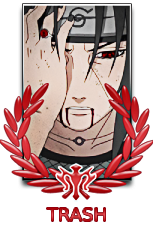
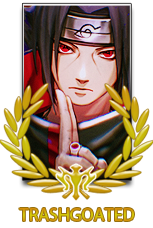
update colors Trash Betrayer Cley

diff --git a/index.html b/index.html
@@ -164,12 +164,12 @@
 
         <div id="showMembers">
             <img src='Members/NewGen/aupate.png' class="zoom">
+            <img src='Members/NewGen/Trash.png'class="zoom">
+            <img src='Members/NewGen/Betrayer.png'class="zoom">
             <img src='Members/NewGen/cley.png' class="zoom">
             <img src='Members/NewGen/Axe.png'class="zoom">
-            <img src='Members/NewGen/D2Sos1.png'class="zoom">
-            <img src='Members/NewGen/Monroe2 (1).png'class="zoom">
-            <img src='Members/NewGen/Nasro.png'class="zoom">
-            <img src='Members/NewGen/Trash.png'class="zoom">
+            <img src='Members/NewGen/D2Sos1.png'class="zoom">    
+            <img src='Members/NewGen/Nasro1.png'class="zoom">
             <img src='Members/OldSchool/cl/burr.png'class="zoom">
             <img src='Members/OldSchool/rg/3.png'class="zoom">
             <img src='Members/OldSchool/rg/adfadfaf.png'class="zoom">
